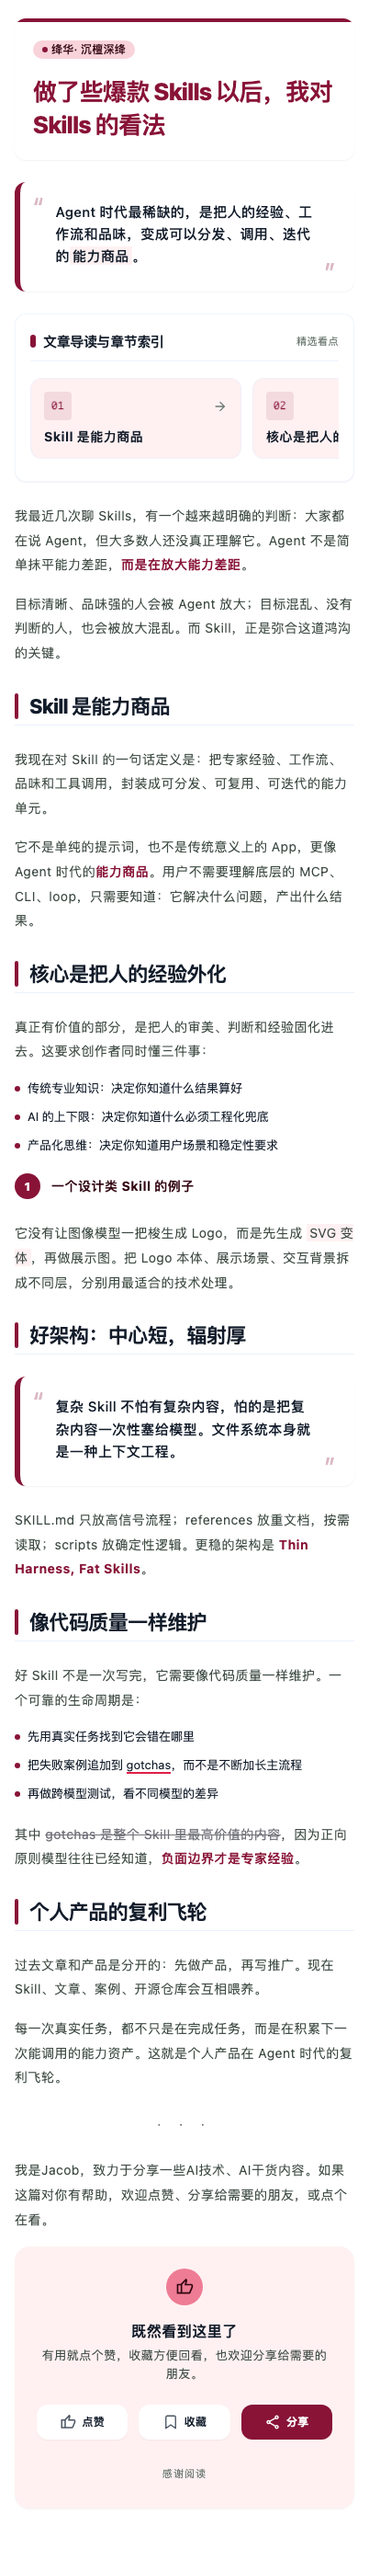
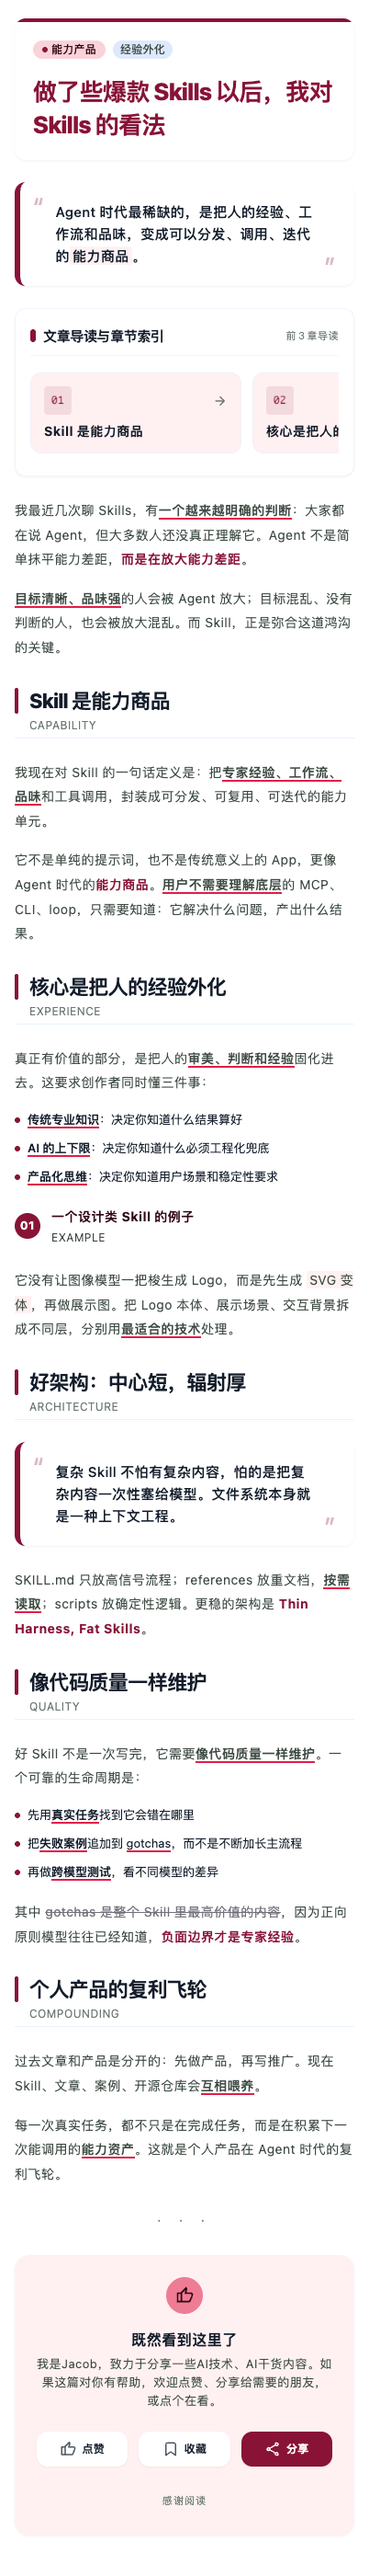
feat: 优化公众号效果图

diff --git a/README.md b/README.md
@@ -30,7 +30,7 @@
 
 ## 效果预览
 
-以下 15 张手机尺寸长图均使用当前渲染器与 `assets/sample-article.md` 重新生成，宽度为 402px，按正文实际高度完整截图，包含底部“点赞／收藏／分享”互动区。每套主题采用其登记的默认章节版式；未传作者参数，因此原文署名作为正文保留，不生成名片。图片不含浏览器预览工具栏，点击可查看原尺寸。
+以下 15 张手机尺寸长图展示 Skill 对 `assets/sample-article.md` 的排版效果：AI 分析文章结构、增强关键词，并使用各主题 Markdown 组件装配正文，宽度为 402px，由浏览器按正文实际高度完整截图。每套主题采用其登记的默认章节版式；目录取前 3 章，不生成作者名片，原文末段的署名与互动引导完整保留在唯一的“点赞／收藏／分享”互动卡片中。图片不含浏览器预览工具栏，点击可查看原尺寸。
 
 <table>
 <tr>
